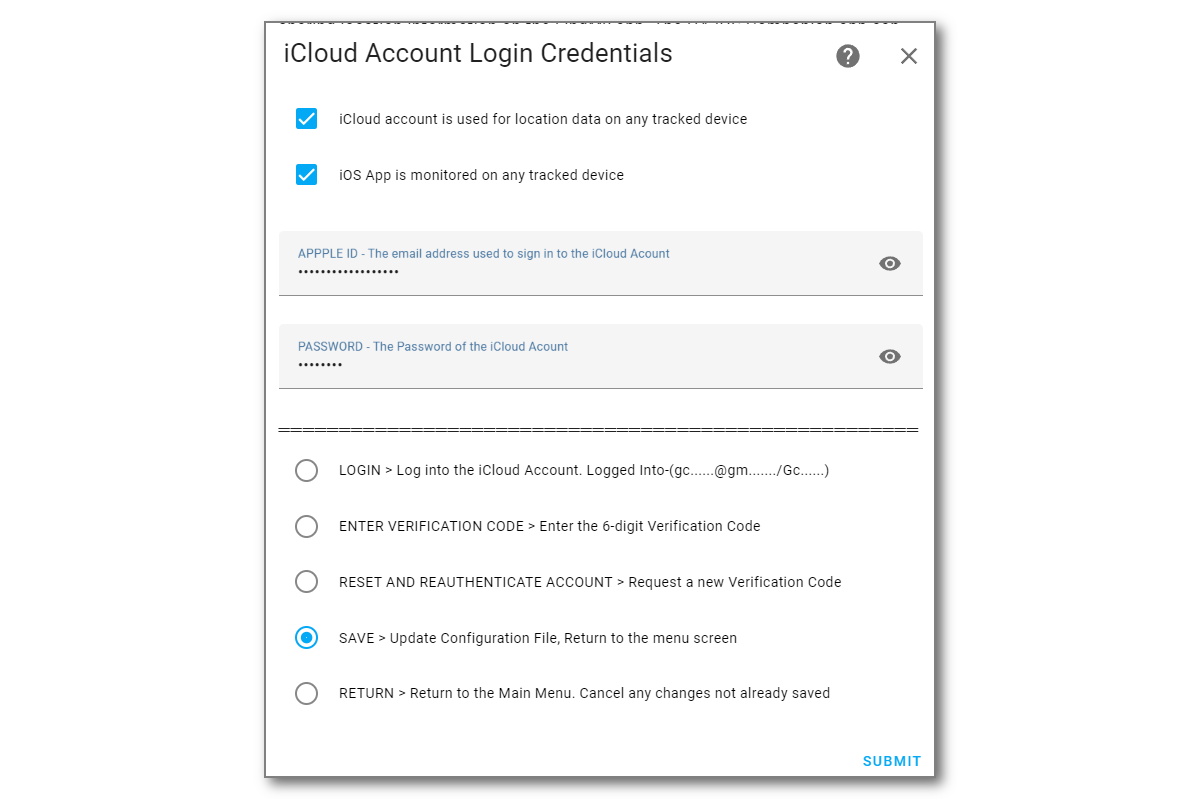
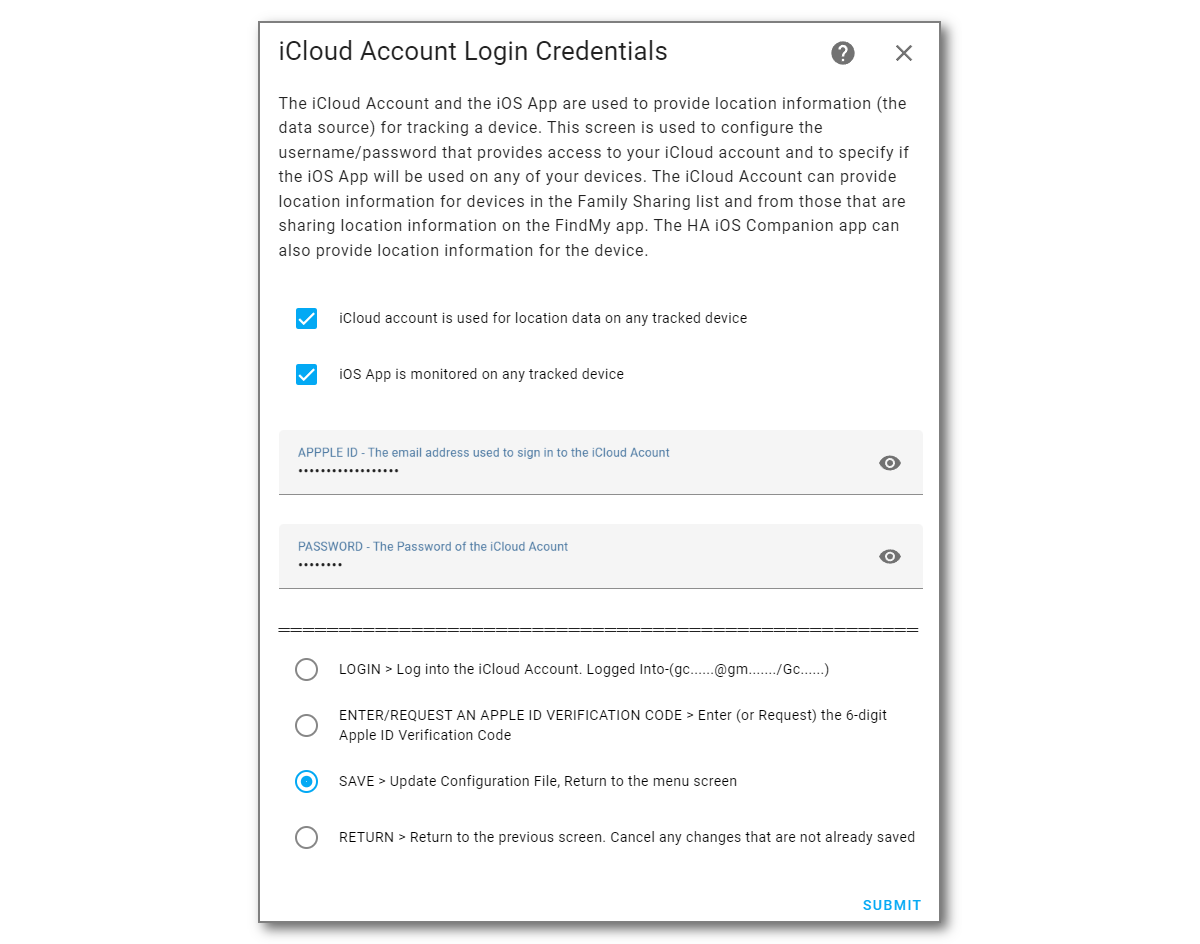
iCloud3 docs

Changed region(s): [[0.2158, 0.0, 0.8017, 0.9912], [0.2158, 0.5707, 0.6167, 0.6308], [0.6475, 0.5707, 0.6783, 0.6008]]

diff --git a/docs/chapters/2.0-installing-and-configuring.md b/docs/chapters/2.0-installing-and-configuring.md
@@ -19,16 +19,28 @@ These steps are described below.
 ------
 ### Step #1 - Install iCloud3
 
-- **Easy Way** -  Use HACS
+iCloud3 is not available on the HACS base integration yet. It will be added as an update to iCloud3 v2 once it has been released for general usage and has a sufficient number of users to insure a smooth transition. There are almost 7000 users now and  supporting a large number of people that might upgrade it at the same time is not feasible.
+
+However, it can be added to HACS as a custom repository. This provides all the benefits of HACS and ensures a smooth rollout.
+
+- **Easy Way** -  Add it to HACS as a custom repository
+
   1. Open HACS.
-  2. Select **Integrations**.
-  3. Type **iCloud3** in the Search Bar at the top of the screen. 
-  4. Select **iCloud3 v3 Device Tracker**.
-  5. Select **Download**, then select **Download** again in the popup window.
-  6. **Restart Home Assistant**.
+
+  2. Select **Integrations**, then select the 3-dots (**︙**) in the upper-right corner, then select **Custom Repositories**.
+
+  3. Type **gcobb321/icloud3_v3** in the Repository field, then select **Integration** in the Category dropdown list, then select **Add**.
+
+     The repository will be added to HACS and will be displayed when you open HACS
+
+  4. Select **Integrations** and type **icloud3** in the search bar.
+
+      The i*Cloud3 New Repository* window is displayed, along with iCloud3 v2. Select iCloud3 v3 and follow the normal HACS procedures to complete the installation.
+
+  ![](../images/hacs-process-highlighted.png)
 
 - **Hard (but not too hard) Way** - Manual Installation
-  1. Download the *icloud3.zip* file from the iCloud3 GitHub Repository Released Page [here](https://github.com/gcobb321/icloud3_v3/releases). Selects *Assets* at the bottom, then the zip file. The file save screen will be displayed, select the location on your computer and save the zip file.
+  1. Download the *icloud3.zip* file from the gcobb321/icloud3_v3 iCloud3 GitHub Repository Released Page [here](https://github.com/gcobb321/icloud3_v3/releases). Selects *Assets* at the bottom, then the zip file. The file save screen is displayed, select the location on your computer and save the zip file.
   2. Unzip the file into the *config/custom_components/icloud3* directory on your Home Assistant server (ex.: Raspberry Pi)
   3. **Restart Home Assistant**
 
@@ -190,134 +202,160 @@ Review the other screens just to see what is configurable. Nothing has to be don
 ------
 ### Step #5 - Set up a Lovelace card tracking card
 
-The following tracking screens show the current status for Gary's iPhone (*gary_iphone*).
+The screen below is an example screen that shows the current status for Gary's iPhone (*gary_iphone*).
 
 -  **Left Side** - Shows the device_tracker and various sensor entities for the two devices showing the distance and travel time from Home, the interval between location requests and when the next request will be made, the battery level, and when it was last located.
 - **Right Side** - The Event Log for Gary while traveling towards home.
 
-The steps for adding this to the Lovelace dashboard are below, followed by the yaml code that created them. You will obviously need to change the entity names of *gary_iphone* to your phone in the yaml code.
+![](../images/lovelace-gary-evlog.png)
+
+Generally, this card is set up as follows:
+
+1. Create an iCloud3  Lovelace dashboard on the HA Sidebar on the left side of the HA screen.
+
+2. Create the device tracker element (right side).
+
+3. Create the Event Log element (left side).
+
+4. Update the Lovelace Resources for the Event Log card if it failed to set up during the iCloud3 installation.
+
+   
+
+#### Step 5.1 - Create the Lovelace iCloud3 Dashboard
+
+Create the iCloud3 Panel that will sit in the HA toolbar along the left-side of the screen.
+
+1. Select **☰ > HA Settings > Dashboards**.
+
+2. Select **+ Add Dashboard** in the lower-right hand corner. The Add New Dashboard screen is displayed.
+
+   ![](../images/lovelace-add-dashboard.png)
+
+3. Enter the following:
+
+   - **iCloud3** in the *Title* field
+   - **mdi:weather-cloud-outline** in the *Icon* field
+   - **dashboard-icloud3** will be automatically filled in into the *URL* field
+
+4. Select **Create**. The Dashboard list screen is redisplayed.
+
+   
+
+#### Step 5.2 - Create the device tracking portion of the lovelace screen
+
+Generally, you will create a Lovelace grid card and copy the raw yaml statements below o that card.  to your phone in the yaml code.
 
 !> The *Event Log card* is a Lovelace custom card. In order to set it up, it must be added to the Lovelace Resources. iCloud3 automatically adds it to the Lovelace Resources when it starts so nothing should need to be done.  Manual instructions on doing this are at the end of this chapter in case it is not added correctly or an error occurs.
 
-![](../images/lovelace-gary-evlog.png)
+Do the following:
 
-The yaml code for this is shown below. 
+1. Select **'⋮' (Upper right corner) > Edit Dashboard** as you normally do to create or update a Lovelace card. The *Take control of your dashboard* screen is displayed.
 
-```yaml
-title: iCloud3
-views:
-  - title: iCloud3
-    cards:
-      - square: false
-        columns: 1
-        type: grid
+   - Select **Start with an empty dashboard**
+   - Select **Take Control**
+
+   A blank *Edit Dashboard* screen is displayed
+
+2. Select **'⋮' (Upper right corner) > Raw configuration editor** and a blank *Edit Configuration* is displayed. Ignore the **+  Add Card**. 
+
+3. Copy all of the code in the above code block and past it into the Edit Configuration window. 
+
+   - Erase the following code that HA adds to the beginning of the Lovelace yaml code editor:	
+
+   ```
+   views:
+     - title: Home
+   ```
+
+   - Copy the code below into the blank editor area. This code is for the *gary_iphone* device_tracker entity. Change all occurrences of *gary_iphone* to the iCloud3 device_tracker entity name for your phone you entered in the Configuration Wizard in step 3.3 above.
+
+    ```yaml
+    title: iCloud3
+    views:
+      - title: iCloud3
         cards:
-          - type: glance
-            state_color: true
-            show_name: true
-            show_icon: true
-            show_state: true
-            columns: 5
-            entities:
-              - entity: device_tracker.gary_iphone
-                name: Gary
-              - entity: sensor.gary_iphone_zone_distance
-                name: Distance
-              - entity: sensor.gary_iphone_travel_time
-                name: TravTime
-              - entity: sensor.gary_iphone_interval
-                name: Interval
-              - entity: sensor.gary_iphone_next_update
-                name: NextUpdt
-          - type: glance
-            columns: 5
-            entities:
-              - entity: sensor.gary_iphone_battery
-                name: Battery
-              - entity: sensor.gary_iphone_dir_of_travel
-                name: Direction
-              - entity: sensor.gary_iphone_moved_distance
-                name: Moved
-              - entity: sensor.gary_iphone_last_located
-                name: Located
-              - entity: sensor.gary_iphone_last_update
-                name: LastUpdt
-          - type: entities
-            entities:
-              - entity: sensor.gary_iphone_info
-                name: Info - Lillian
-                icon: mdi:information-outline
-                
-      - type: grid
-        square: false
-        columns: 1
-        cards:
-          - type: custom:icloud3-event-log-card
+          - square: false
+            columns: 1
+            type: grid
+            cards:
+              - type: glance
+                state_color: true
+                show_name: true
+                show_icon: true
+                show_state: true
+                columns: 5
+                entities:
+                  - entity: device_tracker.gary_iphone
+                    name: Gary
+                  - entity: sensor.gary_iphone_zone_distance
+                    name: Distance
+                  - entity: sensor.gary_iphone_travel_time
+                    name: TravTime
+                  - entity: sensor.gary_iphone_interval
+                    name: Interval
+                  - entity: sensor.gary_iphone_next_update
+                    name: NextUpdt
+              - type: glance
+                columns: 5
+                entities:
+                  - entity: sensor.gary_iphone_battery
+                    name: Battery
+                  - entity: sensor.gary_iphone_dir_of_travel
+                    name: Direction
+                  - entity: sensor.gary_iphone_moved_distance
+                    name: Moved
+                  - entity: sensor.gary_iphone_last_located
+                    name: Located
+                  - entity: sensor.gary_iphone_last_update
+                    name: LastUpdt
+              - type: entities
+                entities:
+                  - entity: sensor.gary_iphone_info
+                    name: Info - Lillian
+                    icon: mdi:information-outline
+   
+          - type: grid
+            square: false
+            columns: 1
+            cards:
+              - type: custom:icloud3-event-log-card
+    ```
 
-```
+	4. Select **Save**, then select the '**X**' next to Edit Configuration in the upper-left, then select **Done**.
 
-To create this Lovelace screen, do the following:
 
-- Create the iCloud3 Panel that will sit in the HA toolbar along the left-side of the screen.
 
-  1. Select **☰ > HA Settings > Dashboards**.
+#### Step 5.3 - Create the Event Log portion of the Lovelace screen
 
-  2. Select **+ Add Dashboard** in the lower-right hand corner. The Add New Dashboard screen is displayed.
+The Event Log shows the status of iCloud3 operations. It displays a lot of information on how iCloud3 starts and on provides the tracking events for all of the devices being tracked and monitored. For this custom card to be displayed, it needs to be added to the Lovelace Resources. 
 
-     ![](../images/lovelace-add-dashboard.png)
+![](../images/lovelace-evlog-gary-away.png)
 
-  3. Enter the following:
+The Event Log is a custom card and HA looks for it in the /www directory. 
 
-     - **iCloud3** in the *Title* field
-     - **mdi:weather-cloud-outline** in the *Icon* field
-     - **dashboard-icloud3** will be automatically filled in into the *URL* field
+- When iCloud3 was installed, the *icloud3-event-log-card.js* file was copied from the *icloud3/event_log_card* directory to the */www/icloud3* directory (or another custom_card directory you might have set up for iCloud3 v2).
 
-  4. Select **Create**. The Dashboard list screen is redisplayed.
+-  When iCloud3 starts, it does the following:
 
-- Create the actual Lovelace iCloud3 panel screen that shows the tracking information for Gary and the iCloud3 Event Log custom card above:
+  - Determine if the Event Log in the */www* directory is the latest version. If not, it is updated. A browser refresh will be needed it it was updated. A notification is displayed on each device that a refresh is needed. 
 
-  1. Select **'⋮' (Upper right corner) > Edit Dashboard** as you normally do to create or update a Lovelace card. The *Take control of your dashboard* screen is displayed.
+    Note: the notification will not be displayed when it is first installed, it is only displayed on an update.
 
-     - Select **Start with an empty dashboard**
-     - Select **Take Control**
+  - Determine if the Lovelace Resource list contains the Event Log and if the directory is correct. It will be added or updated if that is needed.
 
-     A blank *Edit Dashboard* screen is displayed
+When you created the Lovelace card above, you added the statements for the Event Log. They are after all of the other statements.
 
-  2. Select **'⋮' (Upper right corner) > Raw configuration editor** and a blank *Edit Configuration* is displayed. Ignore the **+  Add Card**. 
-
-  3. Copy all of the code in the above code block and past it into the Edit Configuration window. 
-
-     - Erase the following code that HA adds to the beginning of the Lovelace yaml code editor:	
-
-     ```
-     views:
-       - title: Home
-     ```
-
-     - And copy the code snippet above. It should now look like:
-
-     ```
-     title: iCloud3
-     views:
-       - title: iCloud3
+       - type: grid
+         square: false
+         columns: 1
          cards:
-     .
-     .	<<< Rest of the code in the above code snippet >>>
-     .
-           - type: grid
-             square: false
-             columns: 1
-             cards:
-               - type: custom:icloud3-event-log-card
-     ```
+           - type: custom:icloud3-event-log-card
 
-     
-
-  4. Select **Save**, then select the '**X**' next to Edit Configuration in the upper-left, then select **Done**.
+Hopefully, the Event Log displayed correctly. If it did not display and *Custom element doesn't exist icloud3-event-log-card* error message displayed instead, the Event Log needs to be added to the Lovelace Resources.
 
 
 
-#### Setting up the *icloud3-event-log-card* Lovelace Resource
+#### Step 5.4 - Set up the *icloud3-event-log-card* Lovelace Resource (if needed)
 
 The Lovelace Resources points to the location of the *icloud3-event-log-card.js* file and must be set up for the Event Log to be displayed.  If a problem occurs setting up the Lovelace Resource automatically, the Event Log (on the right in the above screenshot) will not be displayed and the following will be displayed instead:
 
@@ -344,7 +382,7 @@ Do the following to set it up manually:
 
 
 ------
-### Step #8 - Congratulations, iCloud3 is set up
+### Congratulations, iCloud3 is set up
 
  If you successfully added the Lovelace tracking, Event Log card and the tracking data is displayed, you have successfully set up iCloud3 and Home Assistant does not have to be restarted, Review the rest of the documentation and the parameter screens
 
@@ -409,12 +447,20 @@ Note: This process may be different for MacOS.
 
 ### iCloud3 Debug Log
 
-iCloud3 writes logging records to it's *icloud3-debug.log* file. This includes:
+iCloud3 writes logging records to it's */config/icloud3-debug.log* file. This includes:
 
 - **info** - Informative messages that display tracking results and some messages on it's operations,
 - **debug** - Debug messages that provide a lot more information on the data received from the iOS App and the iCloud account, it's operational status, error messages and other records on how the devices are being tracked,
-- **rawdata** - Rawdata messages log the actual records sent to and received from the iCloud account, actual data received from the iOS App, how zones, devices and sensors are set up and event activity during when iCloud3 is starting.
+- **rawdata** - Rawdata messages log the actual records sent to and received from the iCloud account, actual data received from the iOS App, how zones, devices and sensors are set up and event activity during when iCloud3 is starting. The data received from Apple Location Services is filtered to remove any fields that are not used by iCloud3.
+- **unfiltered** - Displays the same rawdata described above without any filters. Every data field received from Apple Location Servers is displayed.
 
 These records are written to the *config/icloud3-debug.log* file.
 
 Normally, the *info* log level is used. However, when a new version of iCloud3 is installed, the *debug* log level is operational for 5-days. This can provide the information necessary to identify and solve setup, configuration, device assignment,and other errors that may be encountered during this period.
+
+Notes: 
+
+- The debug-log file is recreated when iCloud3 is restarted. The previous file is renamed *icloud3-debug-1.log*.
+- The debug log file is closed at midnight and renamed *icloud3-debug-1.log*. A new file is created for the new day.
+- The log_level is changed on the *Configuration Wizard > Format Settings* screen.
+- Debug logging can be started and stopped temporarily on the *Event Log > Actions* drop down items list.

diff --git a/docs/chapters/1.1-ic3-components.md b/docs/chapters/1.1-ic3-components.md
@@ -32,7 +32,7 @@ The example screens below show examples of a tracked device's current status. Th
 
 ![](../images/tracking-gary-lillian-home.png)
 
-Note: The Lovelace code for these screens is in [Step #6 - Set up a Lovelace card tracking card](.../2.0-installing-and-configuring?id=step-6-set-up-a-lovelace-card-tracking-card) 
+Note: The Lovelace code for these screens is in [Step #5 - Set up a Lovelace card tracking card](.../2.0-installing-and-configuring?id=step-6-set-up-a-lovelace-card-tracking-card) 
 
 ------
 
@@ -59,34 +59,6 @@ Note: The Event Log is installed into the *config/www/icloud3* directory. This d
 
 
 ![](../images/tracking-gary-lillian-home-evlog.png)
-
-
-
-!> Since the Event Log is a custom card, it must be added as a Lovelace Resource. iCloud3 tries to update the Lovelace Resources when the Event Log is first installed or when it's directory is changed. If iCloud3 is not successful, an error message is displayed in the HA configuration file. Instructions on doing this manually can be found in *Installing and Configuring, Note #2-About the Event Log Card and the Lovelace Resource* [here.](.../chapters/2.0-installing-and-configuring?id=note-2-about-the-event-log-card-and-the-lovelace-resource)
-
-**Automatic Update** - iCloud3 adds the Event Log to the HA Resources list when it starts, you should not have to do this.
-
-**Manual Update** - If there is an error trying to automatically add the Event Log to the resources, it can be added manually.
-
-Do the following:
-
-1. Select **☰ > HA Settings > Dashboards > ⋮ (3-dots in upper-right corner)**, then select **Resources**. The following window is displayed:
-
-   ![](../images/lovelace-resources-list.png)
-
-2. Click the **Add button** ('**+**') in the lower-left. 
-
-3. The *Add new resource* screen is displayed.
-
-   ![](../images/lovelace-resources-add.png)
-
-   
-
-4. Enter the following:
-
-   - **/local/icloud3/icloud3-event-log-card** in the **URL** field
-   - Check **JavaScript Module**
-   - Select **Create**.
 
 
 
